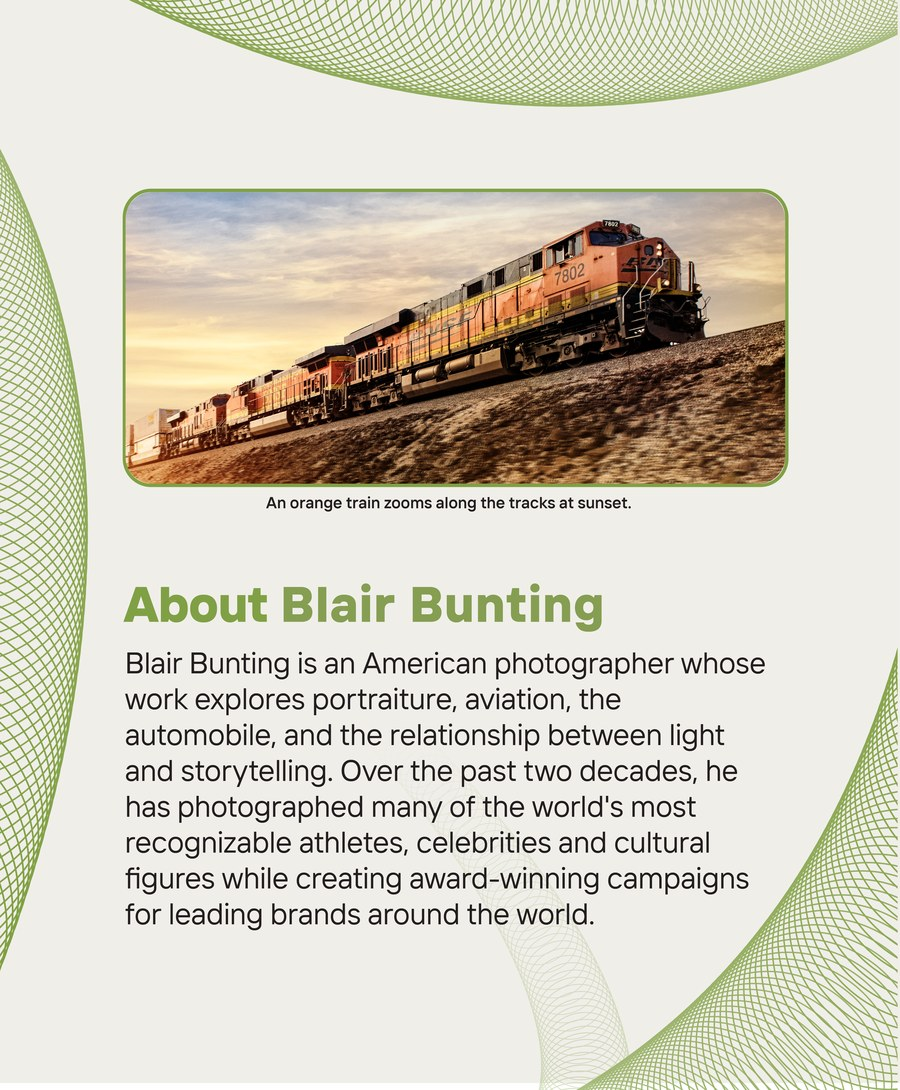
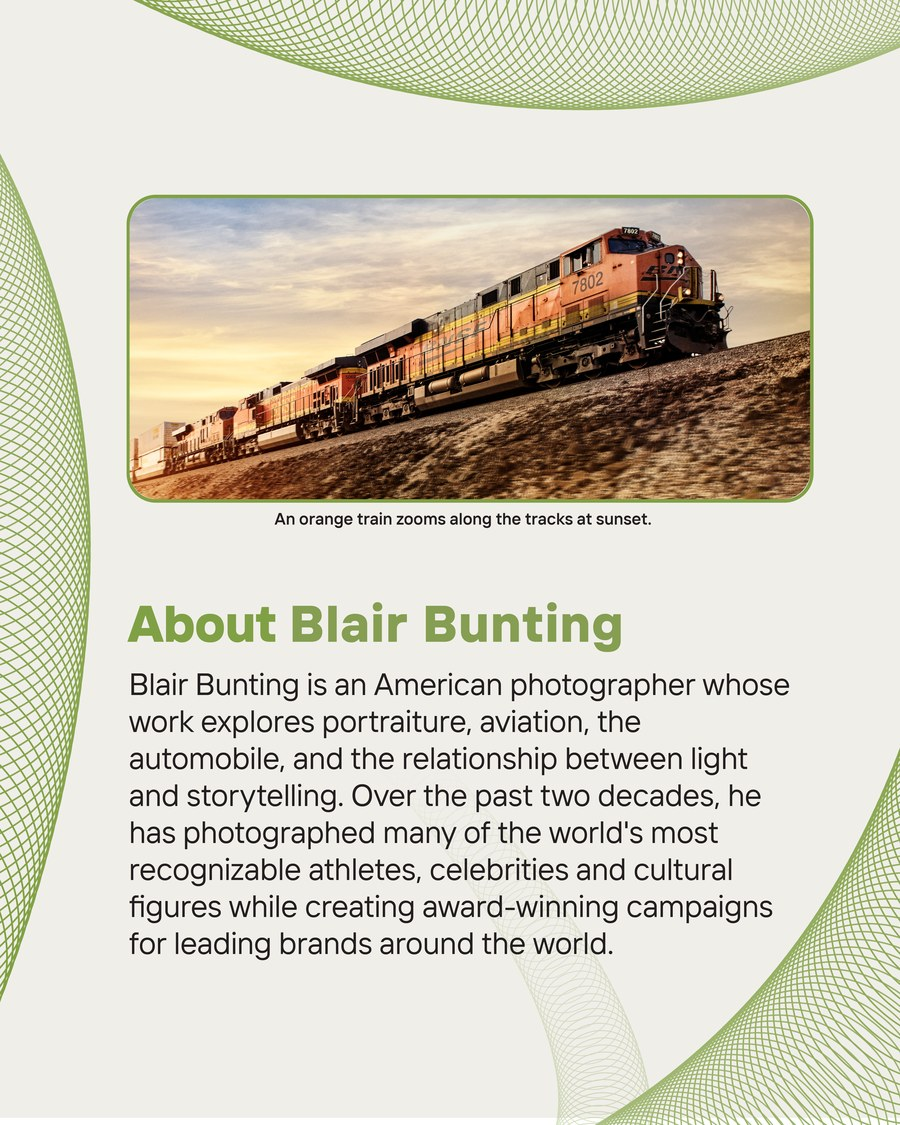
Normalise every festival post to one size
blair-2 was exported at 4643x5625 rather than 4500x5625, so resizing to
a common width left it 35px shorter than its pair and the two sat
mismatched. The extra 143px is empty canvas on the right: the left edge
carries the guilloche pattern and reads std 35.5, the right is flat
paper at 27.8, so the flatter edge is the one trimmed.

All eight now ship at exactly 900x1125 and every pair renders 456x570
with tops aligned.

Claude-Session: https://claude.ai/code/session_01JEuyM9BFofSz7ud4NwGMZi

Changed region(s): [[0.0, 0.156, 1.0, 1.0], [0.1556, 0.0, 1.0, 0.0936]]

diff --git a/project-common-senses.html b/project-common-senses.html
@@ -99,7 +99,7 @@
 
   <figure class="figure figure--two figure--inset" data-reveal>
     <img width="900" height="1125" src="assets/csf/blair-1.jpg" alt="One-Track Mind exhibition announcement" loading="lazy" data-mask>
-    <img width="900" height="1090" src="assets/csf/blair-2.jpg" alt="Biography post for the exhibiting photographer" loading="lazy" data-mask>
+    <img width="900" height="1125" src="assets/csf/blair-2.jpg" alt="Biography post for the exhibiting photographer" loading="lazy" data-mask>
     <figcaption class="meta">The image description is printed under the photograph, on the post.</figcaption>
   </figure>
 
